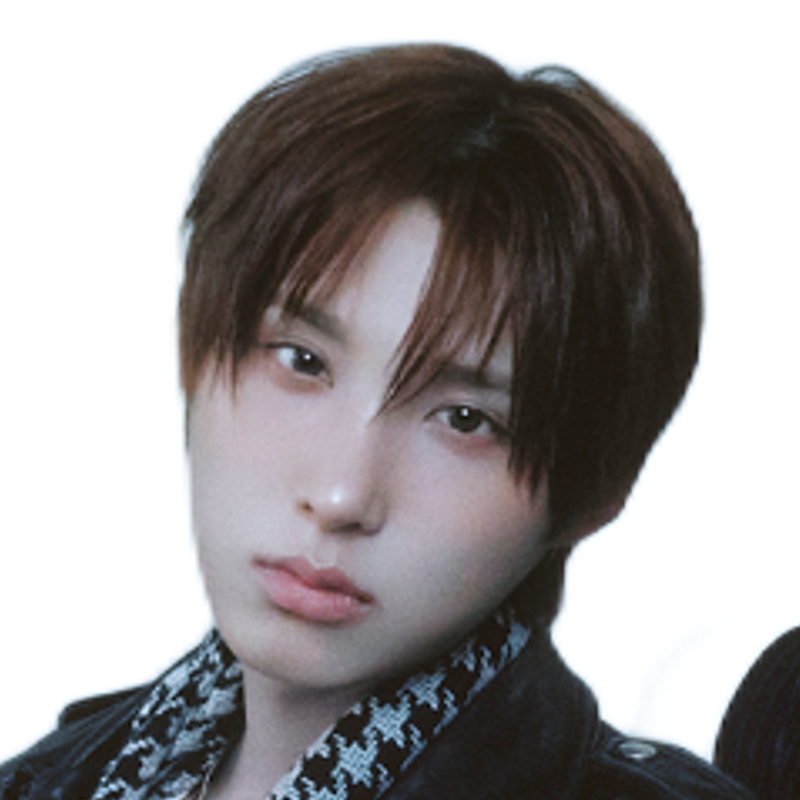
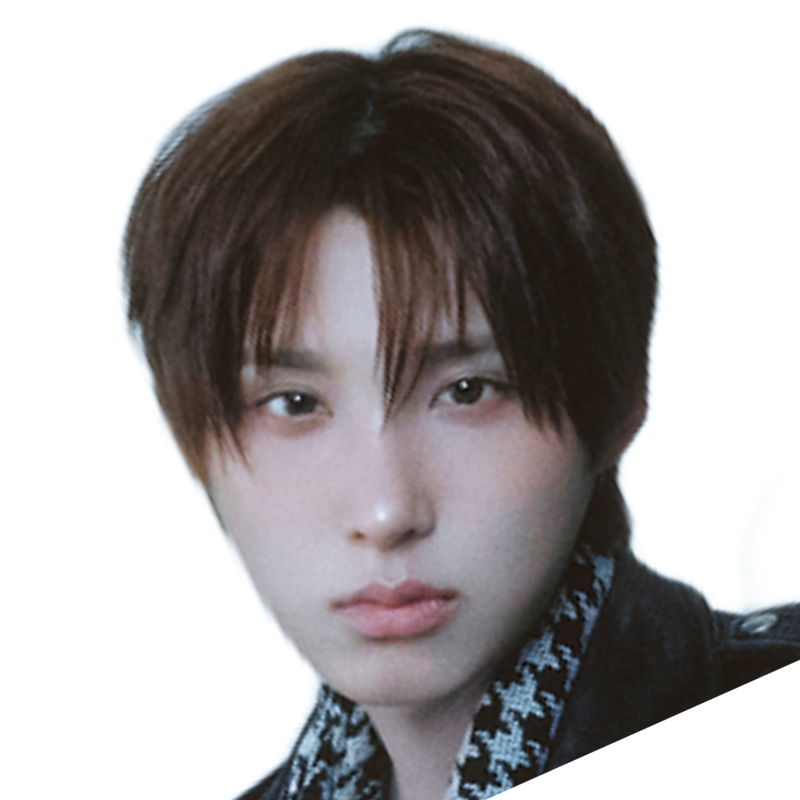
Update 미완성(Puzzle Piece) photos

diff --git a/js/ranking.js b/js/ranking.js
@@ -4,7 +4,7 @@
 /* ========================================= */
 
 /* Bump when the avatar images change, to bust the browser/Pages cache. */
-const PHOTO_VER = 188;
+const PHOTO_VER = 189;
 window.PHOTO_VER = PHOTO_VER;
 
 const Ranking = {
